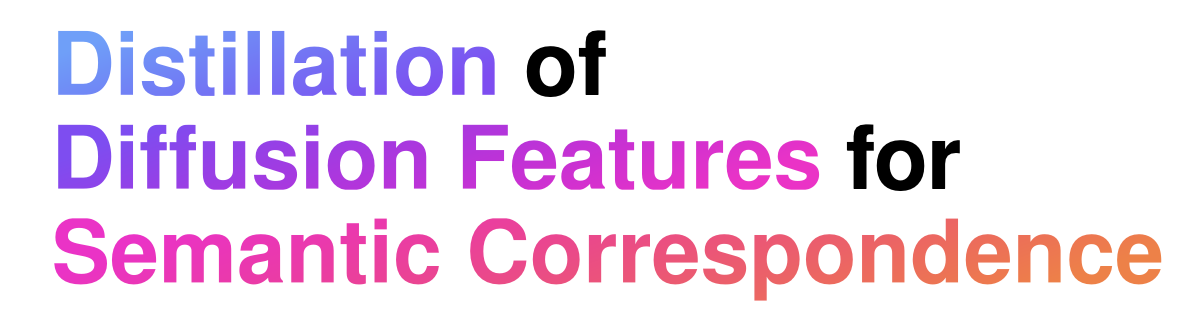
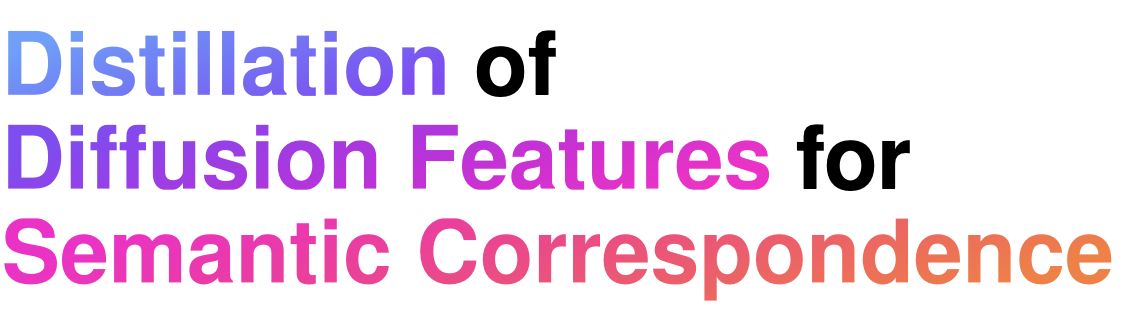
update readme

diff --git a/README.md b/README.md
@@ -1,4 +1,4 @@
-![Title](title.png)
+<img src="title.png" height="120">
 
 Distilling the capability of large diffusion models and transformer models for semantic correspondence.
 We provide a well-written and documented code base for semantic correspondence, feel free to use it!
